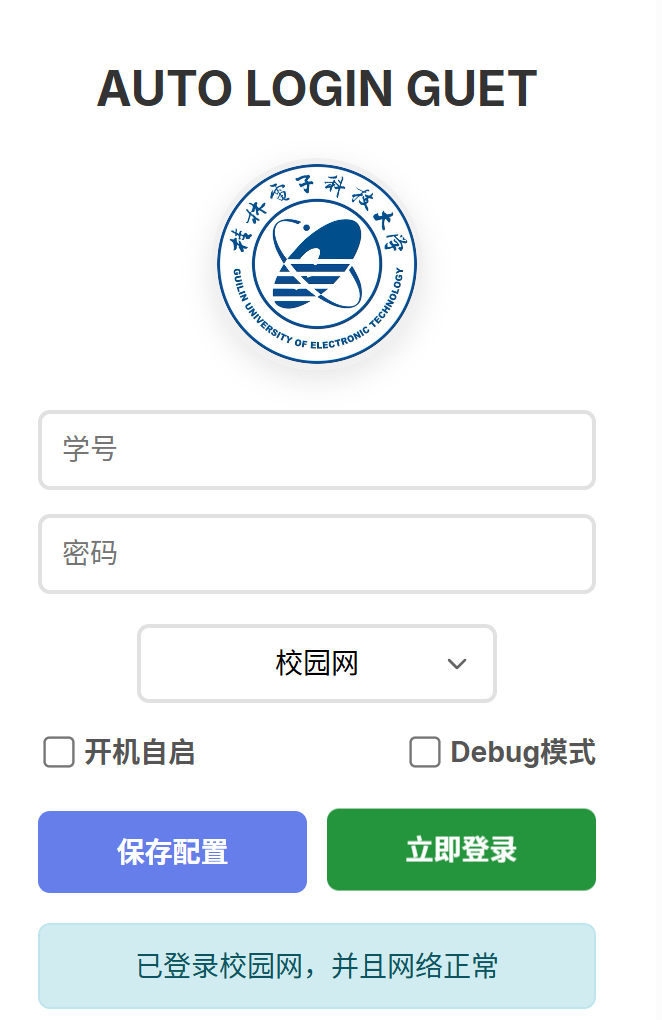
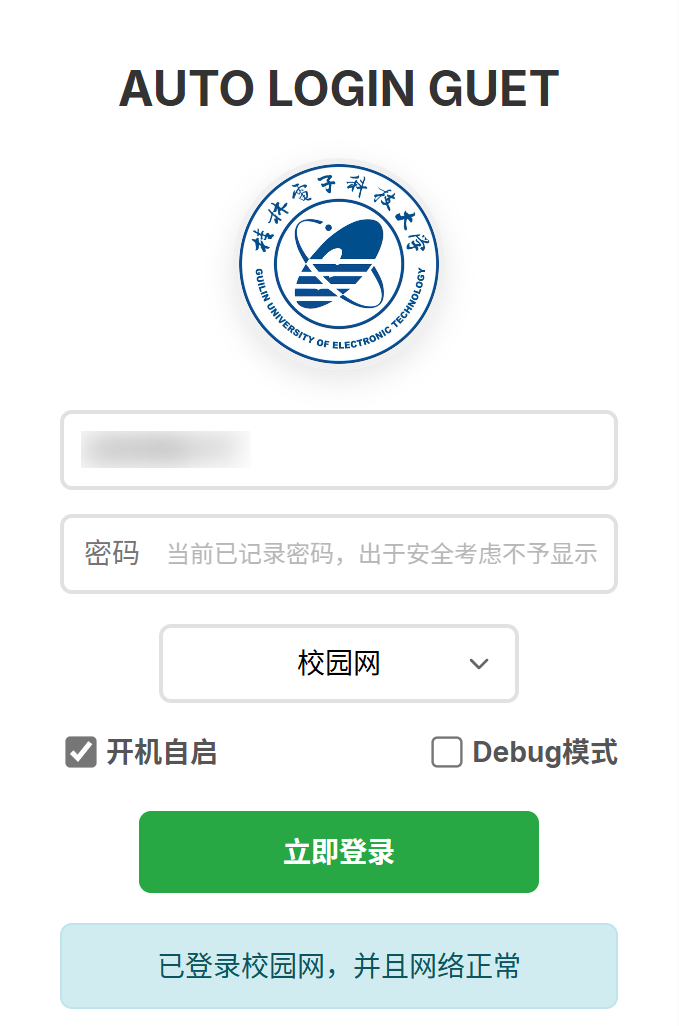
docs: 更新文档

diff --git a/docs/API.md b/docs/API.md
@@ -21,12 +21,13 @@ AutoLoginGUET 是一个使用 Rust 编写的轻量级工具，用于自动登录
 ```
 src/
 ├── core/              # 核心功能模块
-│   ├── config.rs        # 配置管理
+│   ├── config.rs        # 配置定义和基本操作
+│   ├── config_manager.rs # 配置管理器
 │   ├── crypto.rs        # 密码加密解密
 │   ├── logging.rs       # 日志管理
+│   ├── mod.rs           # 核心模块导出
 │   ├── network.rs       # 网络请求
-│   ├── notification.rs  # 系统通知
-│   └── mod.rs           # 核心模块导出
+│   └── notification.rs  # 系统通知
 ├── gui/               # 图形界面模块
 │   ├── app.rs           # 主应用逻辑
 │   ├── components.rs    # 界面组件
@@ -116,7 +117,20 @@ graph TD
 - `save_config()` - 保存配置
 - `is_config_complete()` - 验证配置完整性
 
-#### 3.2.2 crypto.rs - 密码加密解密
+#### 3.2.2 config_manager.rs - 配置管理器
+
+负责配置的高级管理功能，包括配置的创建、更新和删除等操作。
+
+主要结构体：
+- `ConfigManager` - 配置管理器
+
+主要函数：
+- `new()` - 创建新的配置管理器实例
+- `load()` - 加载配置
+- `save()` - 保存配置
+- `update()` - 更新配置
+
+#### 3.2.3 crypto.rs - 密码加密解密
 
 负责用户密码的加密和解密操作。
 
@@ -126,7 +140,7 @@ graph TD
 - `generate_machine_key()` - 生成机器相关密钥
 - `get_machine_guid()` - 获取Windows机器GUID
 
-#### 3.2.3 logging.rs - 日志管理
+#### 3.2.4 logging.rs - 日志管理
 
 负责日志的记录和管理。
 
@@ -138,7 +152,7 @@ graph TD
 - `clean_old_logs()` - 清理旧日志
 - `read_logs()` - 读取日志
 
-#### 3.2.4 network.rs - 网络请求
+#### 3.2.5 network.rs - 网络请求
 
 负责网络状态检查和登录请求。
 
@@ -154,7 +168,7 @@ graph TD
 - `attempt_login_with_credentials()` - 使用凭据尝试登录
 - `try_drcom_login()` - DRCOM登录实现
 
-#### 3.2.5 notification.rs - 系统通知
+#### 3.2.6 notification.rs - 系统通知
 
 负责系统通知的显示。
 

diff --git a/README.md b/README.md
@@ -22,10 +22,17 @@
 - 🔕 **静默模式**: 也可无窗口静默启动
 - 🔐 **密码加密**: 使用 AES 加密存储用户密码
 
-## GUI 示意图
+## 示意图
 
 <img src="assets/GUI.png" alt="GUI示意图" style="box-shadow: 2px 2px 10px rgba(0, 0, 0, 0.3); border-radius: 8px;" />
 
+***
+
+<img src="assets/notification.png" alt="通知示意图" style="box-shadow: 2px 2px 10px rgba(0, 0, 0, 0.3); border-radius: 8px;" />
+
+***
+
+<img src="assets/config.png" alt="配置文件示意图" style="box-shadow: 2px 2px 10px rgba(0, 0, 0, 0.3); border-radius: 8px;" />
 
 ## 安装
 
@@ -48,8 +55,7 @@
 1. 输入学号和密码
 2. 选择网络运营商
 3. 点击"开机自启"
-4. 点击"保存配置"
-5. 点击"立即登录"
+4. 点击"立即登录"
 
 ### 静默模式
 
@@ -84,14 +90,17 @@
 src/
 ├── core/
 │   ├── config.rs        # 配置管理
+│   ├── config_manager.rs # 配置管理器
 │   ├── crypto.rs        # 密码加密解密
 │   ├── logging.rs       # 日志管理
+│   ├── mod.rs           # 模块声明
 │   ├── network.rs       # 网络请求
 │   └── notification.rs  # 系统通知
 ├── gui/
 │   ├── app.rs           # 主应用逻辑
 │   ├── components.rs    # 界面组件
-│   └── debug.rs         # 调试模块
+│   ├── debug.rs         # 调试模块
+│   └── mod.rs           # 模块声明
 └── main.rs              # 程序入口
 ```
 
